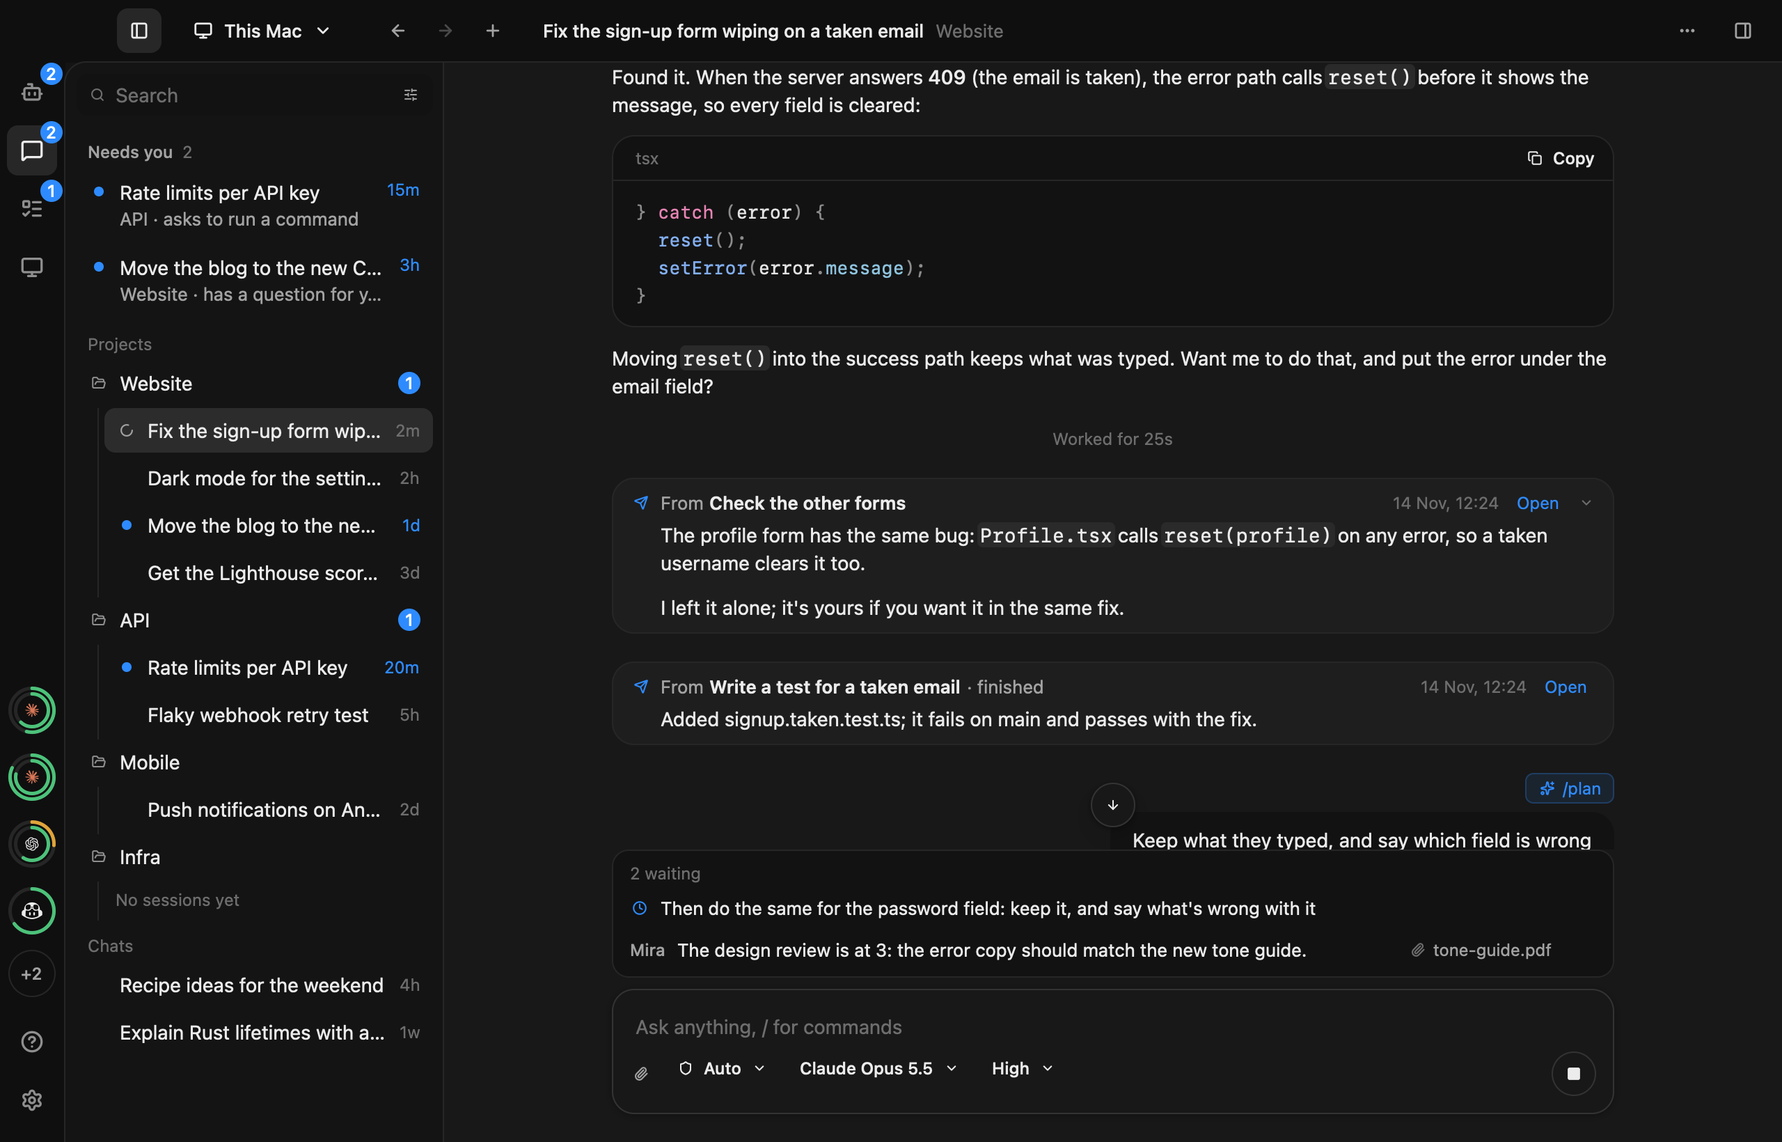
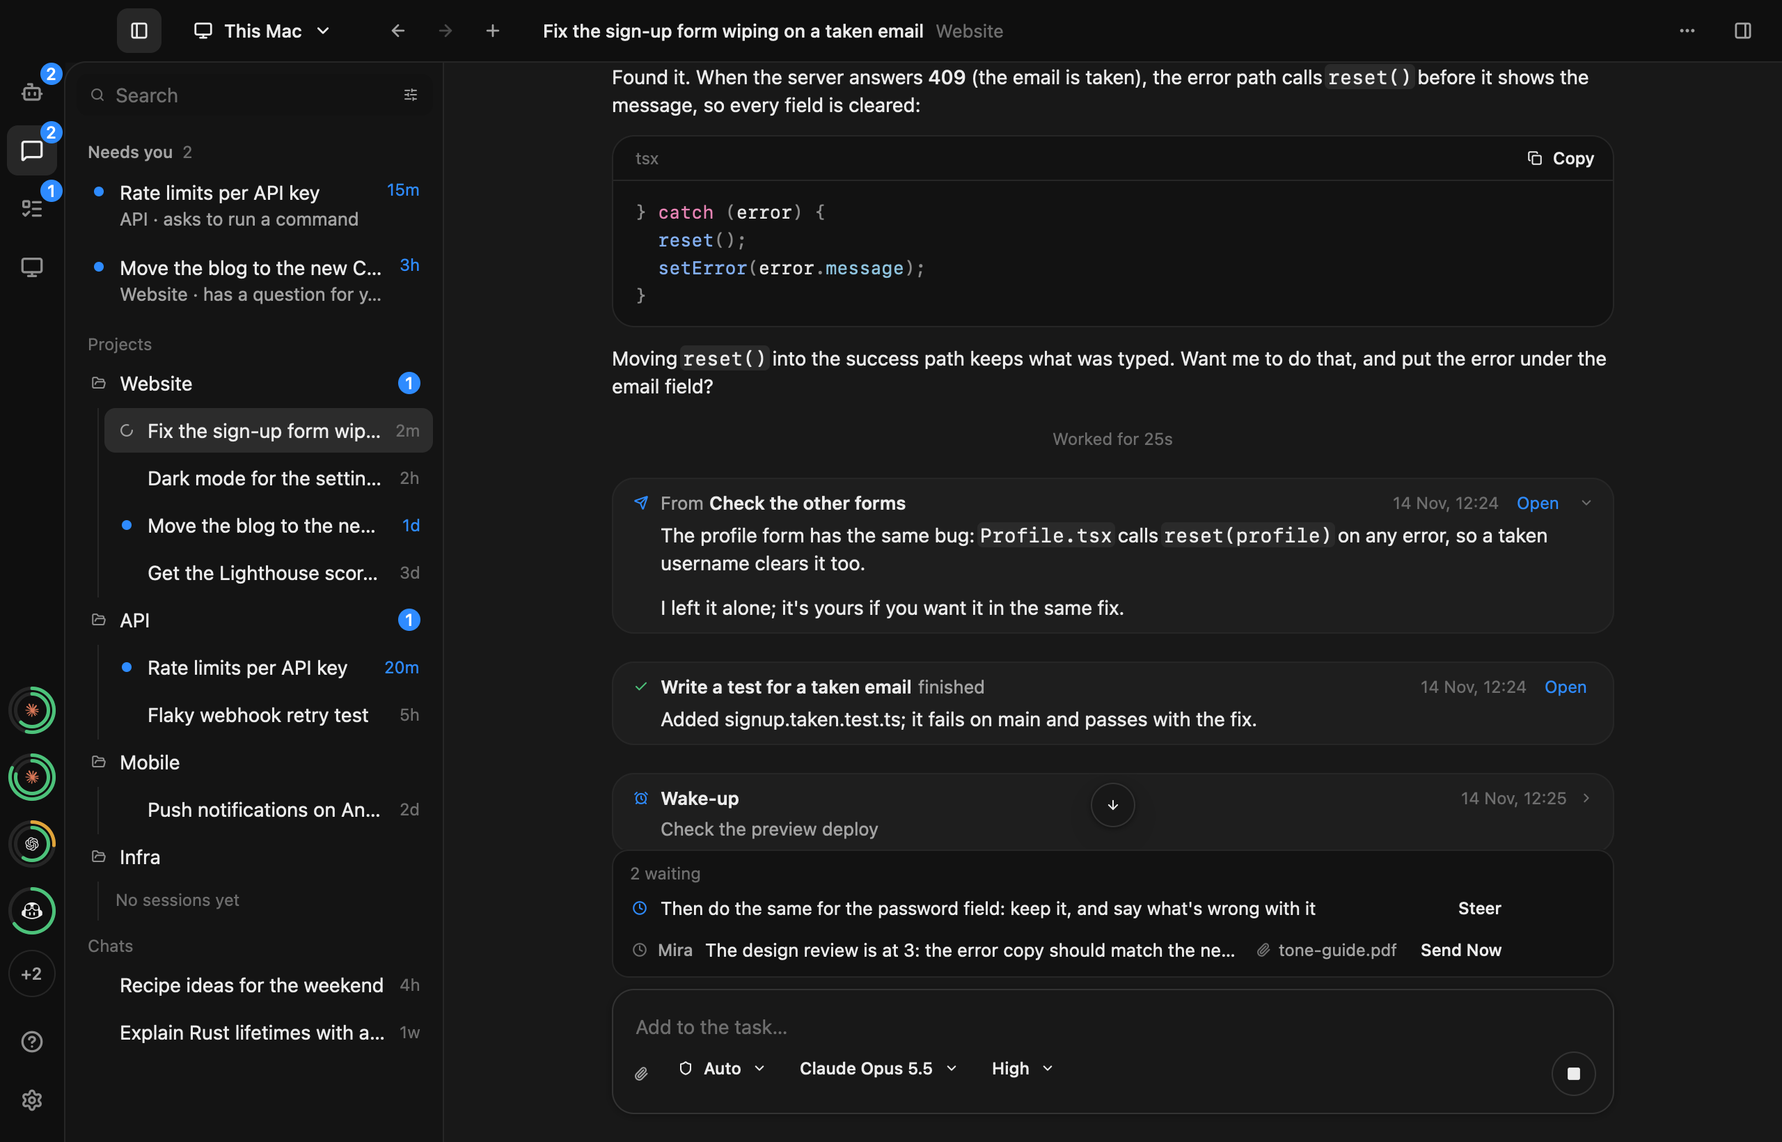
Wake-ups as cards of their own, and session news with a mark per kind
Each message page marks a wake-up's message with metadata.kuvo.wake {summary, note}
(messages.wake-cards), so clients draw it without reading its text. The desktop app draws it as
a card like a message from another agent (an alarm clock, Wake-up, its summary, opening to the
note), and a session's news as "<session> finished" with a mark for what happened.

diff --git a/box/src/shared/message-words.ts b/box/src/shared/message-words.ts
@@ -5,11 +5,13 @@
 //   runs): Kuvo Code's own tools in the words kept beside each one's definition, another MCP
 //   server's as "<server> · <tool>";
 // - a note of the box's telling a lead of its sessions gets `metadata.kuvo.news`, each session's
-//   news as its card shows it.
+//   news as its card shows it;
+// - a wake-up's message (a wake-up's or a watch's) gets `metadata.kuvo.wake`: its card's `summary`
+//   (the one its agent gave it, else its note's first sentence) and its `note` whole.
 // Pure data: the same on a Mac's box and a machine's.
 
 import { isObject } from "./json";
-import { boxNoteOf } from "./queues";
+import { boxNoteOf, wakeMarkOf } from "./queues";
 
 /** How a tool's call is told: its MCP `title` (a short imperative name, sent in `tools/list`), and
  * what a step of it says done and while it runs. `target` names an input field to put in them where
@@ -192,9 +194,38 @@ export function sessionNews(text: string): SessionNews[] | null {
   });
 }
 
+// MARK: Wake-ups
+
+/** How a wake-up's (or a watch's) message opens, as `kuvo-wake` and the box write it. */
+export const WAKE_OPENING = "[Wake-up] ";
+
+/** What a wake-up's card shows: its summary, and the note it opens to. */
+export interface WakeCard {
+  summary: string;
+  note: string;
+}
+
+/** The first sentence of `note`'s first line (Markdown's `*` and `` ` `` out of it, and a heading's,
+ * quote's or list item's marks at its start, but not underscores, which names and addresses have),
+ * or that line whole when it has no sentence's end: a `.`, `!`, `?` or `…` with a space or the
+ * line's end after it (not in 1.2 or a site's name). */
+export function firstSentence(note: string): string {
+  const line = note.split(/\r?\n/).find(each => each.trim()) ?? "";
+  const plain = line.replace(/[*`]+/g, "").replace(/^[\s#>-]+/, "").trim();
+  const end = /[.!?…](?=\s|$)/.exec(plain);
+  return end ? plain.slice(0, end.index + 1) : plain;
+}
+
+/** The card a message with `text` and `metadata` is, if it's a wake-up's; null for any other. */
+export function wakeCard(text: string, metadata: unknown): WakeCard | null {
+  if (!text.startsWith(WAKE_OPENING)) return null;
+  const note = text.slice(WAKE_OPENING.length).trim();
+  return { summary: wakeMarkOf(metadata)?.kuvo.wake.summary || firstSentence(note) || "Wake-up", note };
+}
+
 // MARK: Pages
 
-/** A message with the box's words: its tool steps', or its news. */
+/** A message with the box's words: its tool steps', its news, or its wake-up's card. */
 export function messageWords(message: unknown, known: KnownTools): unknown {
   if (!isObject(message)) return message;
   if (message.type === "assistant" && Array.isArray(message.content)) {
@@ -214,6 +245,13 @@ export function messageWords(message: unknown, known: KnownTools): unknown {
     const metadata = isObject(message.metadata) ? message.metadata : {};
     const kuvo = isObject(metadata.kuvo) ? metadata.kuvo : {};
     return { ...message, metadata: { ...metadata, kuvo: { ...kuvo, news } } };
+  }
+  if (message.type === "user" && typeof message.text === "string") {
+    const wake = wakeCard(message.text, message.metadata);
+    if (!wake) return message;
+    const metadata = isObject(message.metadata) ? message.metadata : {};
+    const kuvo = isObject(metadata.kuvo) ? metadata.kuvo : {};
+    return { ...message, metadata: { ...metadata, kuvo: { ...kuvo, wake } } };
   }
   return message;
 }

diff --git a/box/src/shared/features.ts b/box/src/shared/features.ts
@@ -125,6 +125,7 @@ export const FEATURES = [
   "messages.send",
   "messages.session-news",
   "messages.tool-titles",
+  "messages.wake-cards",
   "models.offered",
   "models.offered.folder",
   "models.offered.free",

diff --git a/gpui/kuvo/src/entries.rs b/gpui/kuvo/src/entries.rs
@@ -934,14 +934,26 @@ fn lowered(words: &str) -> String {
     letters.next().map(|first| first.to_lowercase().chain(letters).collect()).unwrap_or_default()
 }
 
-/// A message from another agent, or one of its sessions' news, as its card shows it: who it's from,
-/// what happened ("finished", "asks"), what it said, and the conversation it's from (none where
-/// it can't be opened).
+/// What a card in a conversation is: a message from another agent, one of its sessions' news, or a
+/// wake-up (or watch) of its own. Each has its own mark and title.
+#[derive(Clone, Copy, Debug, PartialEq, Eq)]
+pub enum Kind {
+    Mail,
+    News,
+    Wake,
+}
+
+/// A message the user didn't write, as its card shows it: what it is, who it's from (a wake-up:
+/// "Wake-up"), what happened ("finished", "asks"), what it said, the line it shows folded where it
+/// isn't its first (a wake-up's summary), and the conversation it's from (none where it can't be
+/// opened).
 #[derive(Clone, Debug, PartialEq)]
 pub struct Letter {
+    pub kind: Kind,
     pub from: String,
     pub status: Option<String>,
     pub said: String,
+    pub preview: Option<String>,
     pub session: Option<String>,
 }
 
@@ -951,10 +963,36 @@ impl Letter {
         !self.folds() || open.contains(&Fold::Card(message.to_owned(), n))
     }
 
-    /// Whether there's more to it than its first line shows.
+    /// Whether there's more to it than its folded line shows.
     fn folds(&self) -> bool {
         let said = self.said.trim();
+        if let Some(preview) = &self.preview {
+            return said != preview.trim();
+        }
         said.lines().count() > 1 || said.chars().count() > 140
+    }
+
+    /// The line it shows folded: its own (a wake-up's summary), or its first as it reads, without
+    /// the marks that shape it whole.
+    fn folded_line(&self) -> String {
+        if let Some(preview) = &self.preview {
+            return preview.trim().to_owned();
+        }
+        self.said.trim().lines().find(|line| !line.trim().is_empty()).unwrap_or("").trim().trim_start_matches(['#', '>', '-', '*', ' ']).replace("**", "").replace('`', "")
+    }
+
+    /// Its mark, and the colour it's drawn in: a send mark for a message, an alarm clock for a
+    /// wake-up, and for a session's news what happened (finished, asks, stopped).
+    fn mark(&self, c: &kuvo_ui::theme::Colors) -> (IconName, gpui::Hsla) {
+        match (self.kind, self.status.as_deref()) {
+            (Kind::Mail, _) => (IconName::Send, c.accent),
+            (Kind::Wake, _) => (IconName::Alarm, c.accent),
+            (Kind::News, Some("finished")) => (IconName::Check, c.success),
+            (Kind::News, Some("asks")) => (IconName::Question, c.accent),
+            (Kind::News, Some("stopped" | "not summarized")) => (IconName::Warning, c.warning),
+            (Kind::News, Some("stopped by you")) => (IconName::Close, c.text_muted),
+            (Kind::News, _) => (IconName::Send, c.accent),
+        }
     }
 }
 
@@ -963,18 +1001,22 @@ impl Letter {
 pub fn letters(user: &kuvo_box::messages::UserMessage) -> Vec<Letter> {
     // Its sessions' news its box couldn't read: whole, from them, rather than lost.
     if let Some(text) = user.unread_news() {
-        return vec![Letter { from: "Its sessions".into(), status: None, said: text, session: None }];
+        return vec![Letter { kind: Kind::News, from: "Its sessions".into(), status: None, said: text, preview: None, session: None }];
+    }
+    // A wake-up of its own: its summary, opening to its note.
+    if let Some(wake) = user.wake() {
+        return vec![Letter { kind: Kind::Wake, from: "Wake-up".into(), status: None, said: wake.note, preview: Some(wake.summary), session: None }];
     }
     let news: Vec<News> = user.news();
     if !news.is_empty() {
         return news
             .into_iter()
-            .map(|news| Letter { from: news.title, status: news.status, said: news.said, session: Some(news.session).filter(|session| session.starts_with("ses")) })
+            .map(|news| Letter { kind: Kind::News, from: news.title, status: news.status, said: news.said, preview: None, session: Some(news.session).filter(|session| session.starts_with("ses")) })
             .collect();
     }
     let parts = user.parts();
     let Some(mail) = parts.mail else { return Vec::new() };
-    vec![Letter { from: mail.name, status: None, said: parts.words.trim().to_owned(), session: Some(mail.session).filter(|session| session != "unknown" && !session.is_empty()) }]
+    vec![Letter { kind: Kind::Mail, from: mail.name, status: None, said: parts.words.trim().to_owned(), preview: None, session: Some(mail.session).filter(|session| session != "unknown" && !session.is_empty()) }]
 }
 
 /// Messages from other agents (or a lead's sessions' news), each as a card of its own: a send mark,
@@ -989,8 +1031,7 @@ fn from_agents(message: &str, letters: &[Letter], at: f64, open: &HashSet<Fold>,
         let toggle = toggle.clone();
         let id = SharedString::from(format!("letter-{message}-{n}"));
         let selector = id.to_string();
-        // Its first line as it reads, without the marks that shape it whole.
-        let preview: String = letter.said.trim().lines().find(|line| !line.trim().is_empty()).unwrap_or("").trim().trim_start_matches(['#', '>', '-', '*', ' ']).replace("**", "").replace('`', "");
+        let preview = letter.folded_line();
         let open_it = letter.session.clone().map(|session| {
             let open_session = around.open_session.clone();
             let selector = format!("open-{message}-{n}");
@@ -1010,23 +1051,25 @@ fn from_agents(message: &str, letters: &[Letter], at: f64, open: &HashSet<Fold>,
                 })
                 .child("Open")
         });
-        // One line: "From", its name (cut short where it's long), what happened.
+        // One line: "From" and its name (cut short where it's long) for a message; a session's name
+        // and what happened ("Sign-in finished"); "Wake-up".
         let from = div()
             .flex()
             .items_center()
             .gap(space::S1)
             .min_w_0()
             .text_color(c.text_muted)
-            .child(div().flex_none().child("From"))
+            .when(letter.kind == Kind::Mail, |d| d.child(div().flex_none().child("From")))
             .child(div().min_w_0().truncate().text_color(c.text).font_weight(FontWeight::SEMIBOLD).child(letter.from.clone()))
-            .children(letter.status.clone().map(|status| div().flex_none().child(format!("· {status}"))));
+            .children(letter.status.clone().map(|status| div().flex_none().child(status)));
+        let (mark, tint) = letter.mark(c);
         let head = div()
             .flex()
             .items_center()
             .gap(space::S1_5)
             .min_w_0()
             .text_ui(TypeSize::Small)
-            .child(div().flex().flex_none().w(px(16.)).justify_center().child(Icon::new(IconName::Send).size(IconSize::Nav).color(c.accent)))
+            .child(div().flex().flex_none().w(px(16.)).justify_center().child(Icon::new(mark).size(IconSize::Nav).color(tint)))
             .child(div().flex().flex_1().min_w_0().child(from))
             .child(div().flex_none().text_ui(TypeSize::Caption).text_color(c.text_faint).child(time::when(at, time::now_ms())))
             .children(open_it)
@@ -1597,14 +1640,42 @@ mod tests {
         let Entry::Message(message) = &rows[0] else { panic!() };
         let Message::User(user) = &**message else { panic!() };
         let mail = letters(user);
-        assert_eq!(mail, [Letter { from: "Mira".into(), status: None, said: "Done.\n\nAll green.".into(), session: Some("ses_m".into()) }]);
+        assert_eq!(mail, [Letter { kind: Kind::Mail, from: "Mira".into(), status: None, said: "Done.\n\nAll green.".into(), preview: None, session: Some("ses_m".into()) }]);
         assert!(mail[0].folds(), "more than its first line");
         let Entry::Message(message) = &rows[1] else { panic!() };
         let Message::User(user) = &**message else { panic!() };
-        assert_eq!(letters(user), [Letter { from: "Sign-in".into(), status: Some("asks".into()), said: "May I run npm i?".into(), session: Some("ses_a".into()) }]);
+        assert_eq!(letters(user), [Letter { kind: Kind::News, from: "Sign-in".into(), status: Some("asks".into()), said: "May I run npm i?".into(), preview: None, session: Some("ses_a".into()) }]);
         // Its words are selectable once it's shown whole.
         assert!(units(&rows[0], &HashSet::new()).is_empty());
         assert!(!units(&rows[0], &HashSet::from([Fold::Card("m1".into(), 0)])).is_empty());
+    }
+
+    /// A wake-up its box marked shows as a card of its own (#768): its summary folded, its note
+    /// whole once opened, never as your words. One an older box didn't mark is drawn as it was.
+    #[test]
+    fn a_wake_up_is_a_card_with_its_summary_opening_to_its_note() {
+        let note = "Pacing check: read plan_limits.\n\nReply only with the readings.";
+        let (rows, _) = entries(conversation(
+            json!([
+                { "type": "user", "id": "m1", "time": { "created": 1 }, "text": format!("[Wake-up] {note}"), "metadata": { "kuvo": { "wake": { "summary": "Pacing check", "note": note } } } },
+                { "type": "user", "id": "m2", "time": { "created": 2 }, "text": "[Wake-up] Unmarked." },
+            ]),
+            false,
+            None,
+        ));
+        assert_eq!(keys(&rows), ["m1", "m2"]);
+        let Entry::Message(message) = &rows[0] else { panic!() };
+        let Message::User(user) = &**message else { panic!() };
+        assert!(user.is_letter());
+        let wake = letters(user);
+        assert_eq!(wake, [Letter { kind: Kind::Wake, from: "Wake-up".into(), status: None, said: note.into(), preview: Some("Pacing check".into()), session: None }]);
+        assert_eq!(wake[0].folded_line(), "Pacing check");
+        assert!(wake[0].folds(), "it opens to the whole note");
+        assert!(units(&rows[0], &HashSet::new()).is_empty(), "folded, only its summary shows");
+        assert!(!units(&rows[0], &HashSet::from([Fold::Card("m1".into(), 0)])).is_empty());
+        let Entry::Message(message) = &rows[1] else { panic!() };
+        let Message::User(user) = &**message else { panic!() };
+        assert!(!user.is_letter(), "nothing marks it: the app reads no text to tell");
     }
 
     #[test]

diff --git a/gpui/kuvo/src/stand_in.rs b/gpui/kuvo/src/stand_in.rs
@@ -1020,6 +1020,9 @@ fn signup(now: f64) -> Vec<Value> {
         json!({ "type": "user", "id": "msg_s3b", "time": { "created": t + 90_000.0 }, "text": "[Session finished] \"Write a test for a taken email\" in website (address ses_sub3), after 2 min:\nAdded signup.taken.test.ts; it fails on main and passes with the fix.", "metadata": { "kuvo": {
             "note": { "from": "Its sessions", "line": "“Write a test for a taken email” finished" },
             "news": [{ "session": "ses_sub3", "title": "Write a test for a taken email", "status": "finished", "said": "Added signup.taken.test.ts; it fails on main and passes with the fix." }] } } }),
+        // A wake-up of its own, as its box marks it on the page.
+        json!({ "type": "user", "id": "msg_s3c", "time": { "created": t + 100_000.0 }, "text": "[Wake-up] Check the preview deploy: open its URL, sign up with a taken email, and say whether the form keeps what was typed.\n\nIf it's still building, schedule another wake-up in 10 minutes.", "metadata": { "kuvo": {
+            "wake": { "summary": "Check the preview deploy", "note": "Check the preview deploy: open its URL, sign up with a taken email, and say whether the form keeps what was typed.\n\nIf it's still building, schedule another wake-up in 10 minutes." } } } }),
         user("msg_s4", t + 120_000.0, "Keep what they typed, and say which field is wrong", Some("/plan")),
         json!({ "type": "assistant", "id": "msg_s5", "time": { "created": t + 121_000.0 }, "agent": "build", "model": { "providerID": "anthropic", "id": "claude-opus-5-5" }, "content": [
             // Kuvo Code's own tool, by the title its box gives it.

diff --git a/gpui/kuvo_box/src/messages.rs b/gpui/kuvo_box/src/messages.rs
@@ -120,11 +120,26 @@ impl UserMessage {
         (from == "Its sessions" && kuvo.get("news").is_none() && !self.text.trim().is_empty()).then(|| self.text.trim().to_owned())
     }
 
-    /// Whether it's drawn as a message from other agents: another agent wrote it, or it's the box's
-    /// note of a lead's sessions' news.
-    pub fn is_letter(&self) -> bool {
-        !self.news().is_empty() || self.unread_news().is_some() || self.parts().mail.is_some()
+    /// The wake-up (or watch) it is, as its box marks it on the page (`kuvo.wake` with its `note`):
+    /// its card's summary and the note it opens to. None for any other message, and for one an
+    /// older box didn't mark (drawn as it was).
+    pub fn wake(&self) -> Option<Wake> {
+        let wake = self.metadata.as_ref()?.get("kuvo")?.get("wake")?.clone();
+        serde_json::from_value(wake).ok()
     }
+
+    /// Whether it's drawn as a card rather than as your words: another agent wrote it, it's the
+    /// box's note of a lead's sessions' news, or it's a wake-up.
+    pub fn is_letter(&self) -> bool {
+        !self.news().is_empty() || self.unread_news().is_some() || self.parts().mail.is_some() || self.wake().is_some()
+    }
+}
+
+/// A wake-up's message, as its box marks it: what its card shows, and the whole note.
+#[derive(Debug, Clone, PartialEq, Eq, Deserialize)]
+pub struct Wake {
+    pub summary: String,
+    pub note: String,
 }
 
 /// One of a lead's sessions telling it what it did: which session (its address, "" where it isn't

diff --git a/gpui/assets/icons/tools/convert.py b/gpui/assets/icons/tools/convert.py
@@ -13,7 +13,7 @@ import xml.etree.ElementTree as ET
 
 HERE = Path(__file__).resolve().parent
 MAP = {name: name for name in '''archive arrow-down arrow-left arrow-right arrow-up bell bot check chevron-down chevron-left chevron-right chevron-up clock copy eye eye-off file folder folder-open globe hand image info link mic minus moon panel-right paperclip pencil pin plus search send settings shield sun terminal trash undo user'''.split()}
-MAP.update(dict(bolt='zap', branch='git-branch', close='x', compose='square-pen', computer='monitor', drive='hard-drive', external='external-link', message='message-square', more='ellipsis', question='circle-help', queue='list-todo', **{'return': 'corner-down-left'}, sidebar='panel-left', sliders='sliders-horizontal', sparkle='sparkles', spinner='loader-circle', stop='square', warning='triangle-alert'))
+MAP.update(dict(alarm='alarm-clock', bolt='zap', branch='git-branch', close='x', compose='square-pen', computer='monitor', drive='hard-drive', external='external-link', message='message-square', more='ellipsis', question='circle-help', queue='list-todo', **{'return': 'corner-down-left'}, sidebar='panel-left', sliders='sliders-horizontal', sparkle='sparkles', spinner='loader-circle', stop='square', warning='triangle-alert'))
 
 def fmt(n):
     return f'{n:.6f}'.rstrip('0').rstrip('.') if n else '0'

diff --git a/gpui/kuvo_ui/src/icon.rs b/gpui/kuvo_ui/src/icon.rs
@@ -75,6 +75,7 @@ macro_rules! icons {
 }
 
 icons! {
+    Alarm => "alarm",
     Archive => "archive",
     ArrowDown => "arrow-down",
     ArrowLeft => "arrow-left",

diff --git a/CHANGELOG.md b/CHANGELOG.md
@@ -9,6 +9,8 @@ release, Unreleased is renamed to the version; the release notes come from that 
 - In the desktop app, pictures you send show as small thumbnails on your message (at most 240 points on their longest side, their shape kept), from the moment you send them: while sending, waiting for the agent's next step, or if they couldn't go. Click one to open it larger, with ← and → through every picture in the conversation.
 - In the desktop app, what the agent does between its replies folds into one line ("Read 4 files, ran 2 commands, searched once"), evenly spaced; click it to see each step. The step under way shows on that line, and a step that failed shows even when it's folded. Kuvo's own tools and other MCP servers' read in plain words ("Started a session", "Linear · List issues") instead of names like `kuvo-browser_start_session`.
 - In the desktop app, a message from another agent, or news from a session it started, shows as a card from it again (who it's from, its first line, the time, and **Open** to go to that conversation), not as a bubble of yours. Click it to read all of it.
+- A bot no longer gets a session's report twice: when the session already sent it as a message, its finish adds nothing. And when you talk with one of a bot's sessions yourself, its answer to you no longer reaches the bot as a report.
+- In the desktop app, a wake-up shows as a card of its own, like a message from another agent (an alarm clock, "Wake-up" and its summary; click it for the whole note), instead of as a message of yours. News from a session says what happened at a glance: "<session> finished" with a check, a question, or a warning.
 - Opening Work Queue clears its rail badge on this device; only Needs you items updated afterward count again. Editing an item already in Needs you also makes it count again.
 
 - Your settings now lists the keyboard shortcuts Kuvo uses, lets you choose the Side Panel’s first tab, and keeps your anonymous usage choice under Privacy. Nothing is sent yet.

diff --git a/gpui/assets/icons/MAPPING.md b/gpui/assets/icons/MAPPING.md
@@ -5,6 +5,7 @@ All icons use Lucide; none were kept/redrawn. SidebarLeft aliases sidebar.svg. S
 
 | Ours | Lucide |
 | --- | --- |
+| alarm | alarm-clock |
 | archive | archive |
 | arrow-down | arrow-down |
 | arrow-left | arrow-left |
